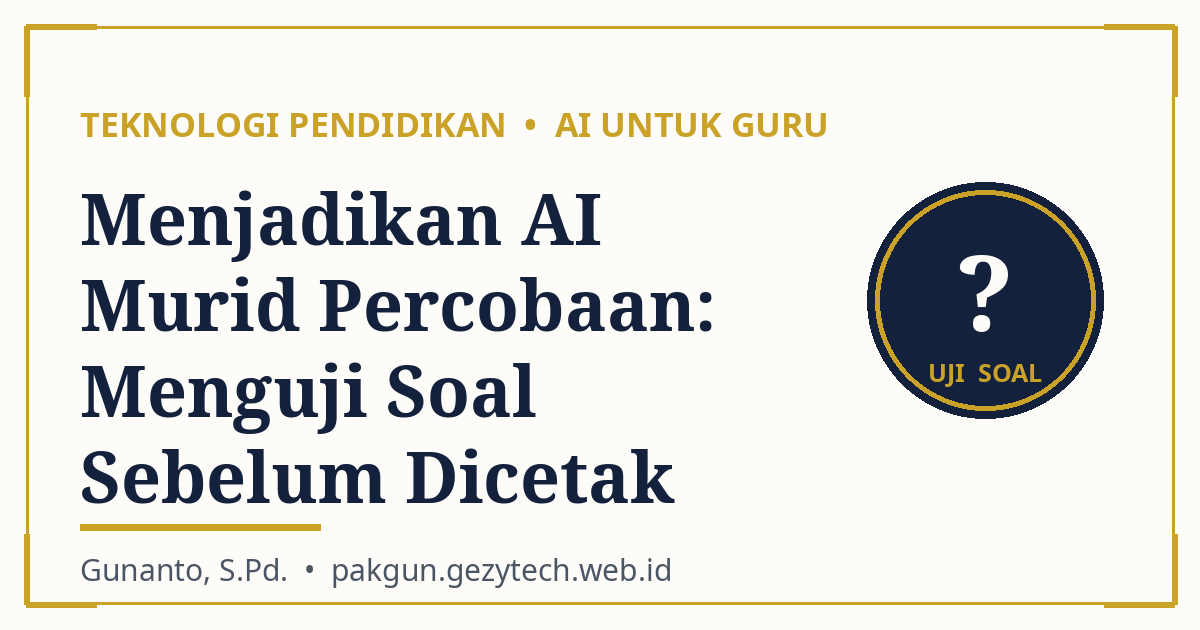
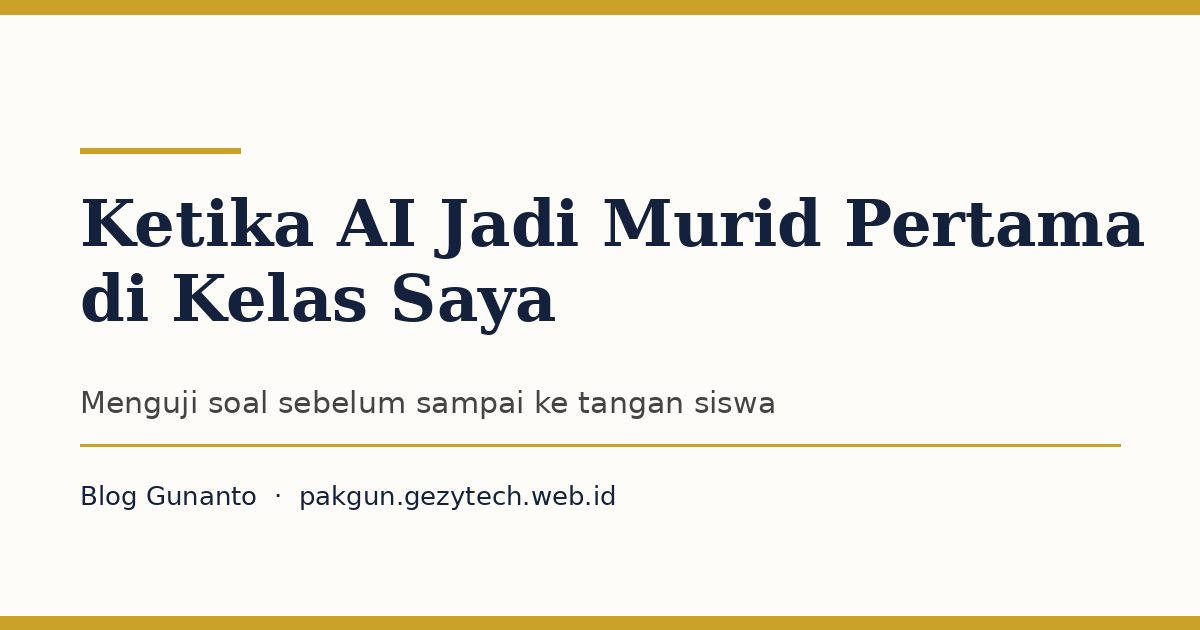
Ganti judul artikel: Ketika AI Jadi Murid Pertama di Kelas Saya

diff --git a/content/posts/menguji-soal-dengan-ai/index.md b/content/posts/menguji-soal-dengan-ai/index.md
@@ -1,10 +1,10 @@
 ---
 weight: 1
-title: "Menjadikan AI Murid Percobaan: Menguji Soal Sebelum Dicetak"
+title: "Ketika AI Jadi Murid Pertama di Kelas Saya"
 date: 2026-10-22T04:30:00+07:00
 draft: false
 authors: ["Gunanto"]
-description: "Soal yang menurut guru sudah jelas belum tentu jelas bagi murid. Saya memakai AI sebagai murid percobaan untuk menemukan kalimat soal yang ambigu, soal yang bisa ditebak tanpa paham konsep, dan soal yang kelewat sulit — sebelum lembar ulangannya dicetak."
+description: "Soal yang menurut guru sudah jelas belum tentu jelas bagi murid. Saya memakai AI sebagai murid pertama untuk menemukan kalimat soal yang ambigu, soal yang bisa ditebak tanpa paham konsep, dan soal yang kelewat sulit — sebelum lembar ulangannya dicetak."
 featuredImage: "featured-image.png"
 
 tags: ["AI", "Asesmen"]
@@ -49,4 +49,4 @@ AI tetap bukan murid sungguhan. Miskonsepsi khas anak-anak — misalnya kebiasaa
 
 Sejak memakai cara ini, keluhan "Pak, maksud soalnya apa?" menurun drastis di kelas saya. Waktu yang tadinya habis untuk menjelaskan maksud soal saat ulangan — waktu yang seharusnya dipakai untuk berpikir — kini kembali ke tempatnya.
 
-Biaya metodenya hampir nol: lima menit mengobrol dengan AI sebelum mencetak. Untuk guru yang selama ini menyusun soal sendirian tanpa teman diskusi, "murid percobaan" ini adalah teman diskusi yang selalu siap. Cobalah pada satu soal ulangan berikutnya; saya ingin tahu jebakan apa yang ia temukan dari soal Bapak/Ibu.
+Biaya metodenya hampir nol: lima menit mengobrol dengan AI sebelum mencetak. Untuk guru yang selama ini menyusun soal sendirian tanpa teman diskusi, "murid pertama" ini adalah teman diskusi yang selalu siap. Cobalah pada satu soal ulangan berikutnya; saya ingin tahu jebakan apa yang ia temukan dari soal Bapak/Ibu.
